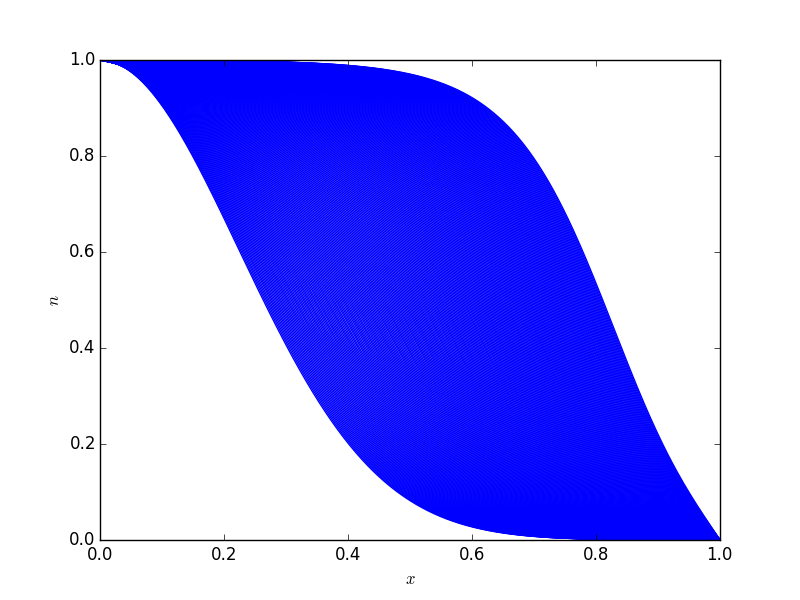
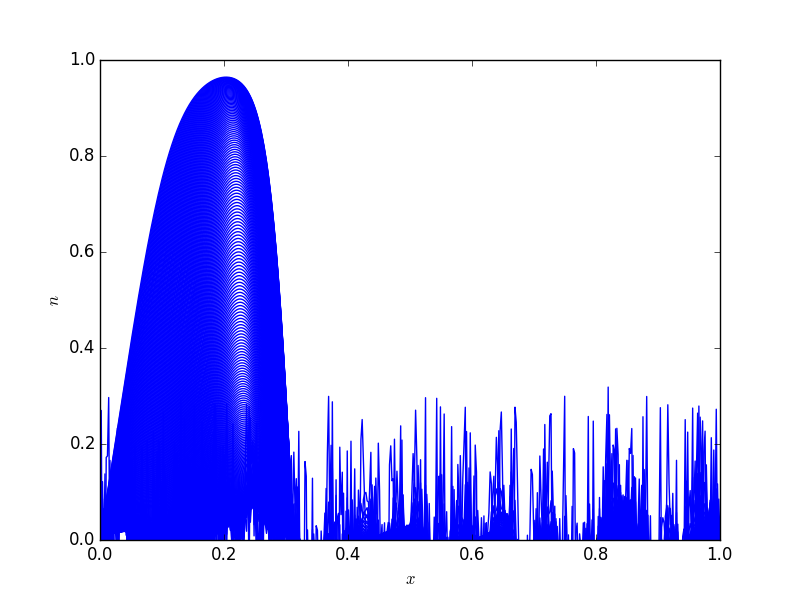
Agrego P2 y cambios chiquititos a P1

diff --git a/tarea6p2.py b/tarea6p2.py
@@ -1,10 +1,11 @@
 '''
-Este script resuelve la ecuación de Fisher-KPP mediante
+Este script resuelve la ecuación de Newell-Whitehead-Segel mediante
 el método de Crank-Nicolson.
 La ecuación a resolver es:
-dn/dt = gamma * d2n/dx2 + mu* n - mu* n^2
+dn/dt = gamma * d2n/dx2 + mu* (n - n^3)
 Condiciones de borde e incial:
-n(t, 0) = 1 ; n(t, 1) = 0 ; n(0, x) = exp(-x^2 / 0.1)
+n(t, 0) = 0 ; n(t, 1) = 0 ;
+n(0, x) = np.random.uniform(low=-0.3, high=0.3, size=Nx)
 '''
 
 from __future__ import division
@@ -12,17 +13,19 @@ import numpy as np
 import matplotlib.pyplot as plt
 import matplotlib.animation as animation
 
+semilla = raw_input("Ingresar semilla:")
+np.random.seed(int(semilla))
+
 def inicializa_n(n, N_steps, dx):
     '''
     Rellena n con las condiciones iniciales del problema.
     Se asegura que las condiciones en los bordes sean cero.
     '''
+    N = np.random.uniform(low=-0.3, high=0.3, size=N_steps)
     for i in range(N_steps):
-        x = i * dx
-        n[i] = np.exp((-x**2) / 0.1)
-    n[0] = 1
+        n[i] = N[i]
+    n[0] = 0
     n[-1] = 0
-    pass
 
 def calcular_b(b, N_steps, r):
     '''
@@ -30,7 +33,7 @@ def calcular_b(b, N_steps, r):
     del instante anterior.
     '''
     for j in range(1, N_steps - 1):
-        b[j] = r*n[j+1] + (1 - 2*r)*n[j] + r*n[j-1] + dt*mu*(n[j] - n[j]**2)
+        b[j] = r*n[j+1] + ((1 - 2*r) + dt*mu*(1 - n[j]**2))*n[j] + r * n[j-1]
     pass
 
 def alpha_beta(alpha, beta, b, r, N_steps):
@@ -41,7 +44,7 @@ def alpha_beta(alpha, beta, b, r, N_steps):
     A_zero = (1 + 2 * r)
     A_minus = -1 * r
     alpha[0] = 0
-    beta[0] = 1  # viene de la condicion de borde n(t, 0) = 1
+    beta[0] = 0  # viene de la condicion de borde n(t, 0) = 0
     for i in range(1, N_steps):
         alpha[i] = -A_plus / (A_zero + A_minus * alpha[i-1])
         beta[i] = (b[i] - A_minus * beta[i-1]) / (A_minus * alpha[i-1] + A_zero)
@@ -51,15 +54,11 @@ def time_step(n, n_next, alpha, beta):
     '''
     Avanza un instante en el tiempo.
     '''
-    n_next[0] = 1 #condición de borde n(t,0) = 1
+    n_next[0] = 0 #condición de borde n(t,0) = 0
     n_next[-1] = 0 #condición de borde n(t,1) = 0
     for i in range(N_steps - 2, 0, -1):
         n_next[i] = alpha[i] * n_next[i+1] + beta[i]
     pass
-
-#Main
-
-#Setup
 
 x_i = 0
 x_f = 1
